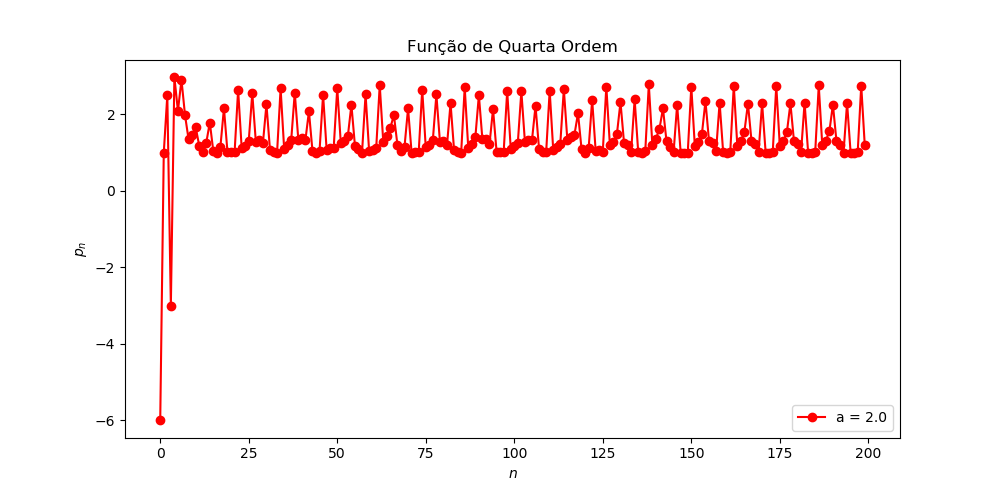
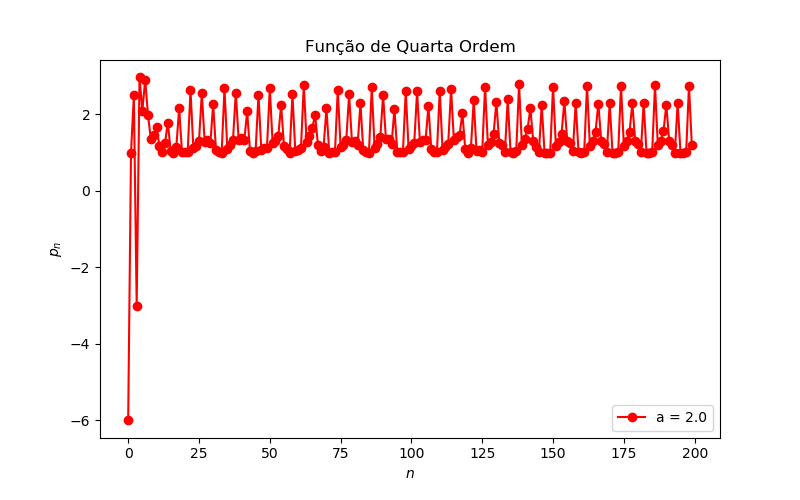
Questão 5 (gráficos gerados)

diff --git a/trabalho1/questao_5/questao5.py b/trabalho1/questao_5/questao5.py
@@ -23,7 +23,7 @@ def fb(p_n, p_n1, p_n2, a):
 
 #%%
     
-precisao = np.float128
+precisao = np.float64
 
 #Condições iniciais
 condicoes_iniciais = np.array([-6.0, 1.0, 2.5, -3.0], precisao)
@@ -55,7 +55,7 @@ for n in range(n_steps-4):
 
 
 #plota resultados (função de quarta ordem)  
-pl.figure(figsize=(10,5))
+pl.figure(figsize=(8,5))
 pl.plot(p, 'ro-', label='a = '+str(a))
 pl.xlabel("$n$")
 pl.ylabel("$p_n$")
@@ -66,7 +66,7 @@ pl.show()
 
 
 #plota resultados (equação relacionada)  
-pl.figure(figsize=(10,5))
+pl.figure(figsize=(8,5))
 pl.plot(q, 'go-', label='a = '+str(a))
 pl.xlabel("$n$")
 pl.ylabel("$p_n$")
@@ -91,12 +91,13 @@ for i in range(len(valores_a)):
     x = np.zeros([n_steps - len(condicoes_iniciais)], precisao)
     x = np.insert(x, 0, condicoes_iniciais)
     p_list.append(x)
-    q_list.append(x)
+    q_list.append(np.copy(x))
     
 #percorre os valores de a
 for i in range(len(valores_a)):
     #transfere o array da lista pra variavel local
     p = p_list[i]
+    q = q_list[i]
     
     #transfere o valor de a pra variavel local
     a = valores_a[i]
@@ -104,15 +105,26 @@ for i in range(len(valores_a)):
     #iterador
     for n in range(n_steps-4):
         p[n+4] = fa(p[n], p[n+1], p[n+2], p[n+3], a)
+        q[n+4] = fb(q[n], q[n+1], q[n+2], a)
         
     #plota resultados (função de quarta ordem)  
-    pl.figure(figsize=(10,5))
+    pl.figure(figsize=(8,5))
     pl.plot(p, 'ro-', label='a = '+str(a))
     pl.xlabel("$n$")
     pl.ylabel("$p_n$")
     pl.title(u"Função de Quarta Ordem")
     pl.legend()
     pl.savefig('q5_pergunta2_f4_a='+str(a)+'_.png', dpi=100)
+    pl.show()
+    
+    #plota resultados (equação relacionada)  
+    pl.figure(figsize=(8,5))
+    pl.plot(q, 'go-', label='a = '+str(a))
+    pl.xlabel("$n$")
+    pl.ylabel("$p_n$")
+    pl.title(u"Equação relacionada")
+    pl.legend()
+    pl.savefig('q5_pergunta2_er_a='+str(a)+'_.png', dpi=100)
     pl.show()
         
 

diff --git a/aulas/17-04/aula.py b/aulas/17-04/aula.py
@@ -27,7 +27,7 @@ x = np.zeros(n_steps)
 
 alpha = 0.55
 x[0]=alpha
-r = 3.83
+r = 2.83
 
 fun = f_02
 
